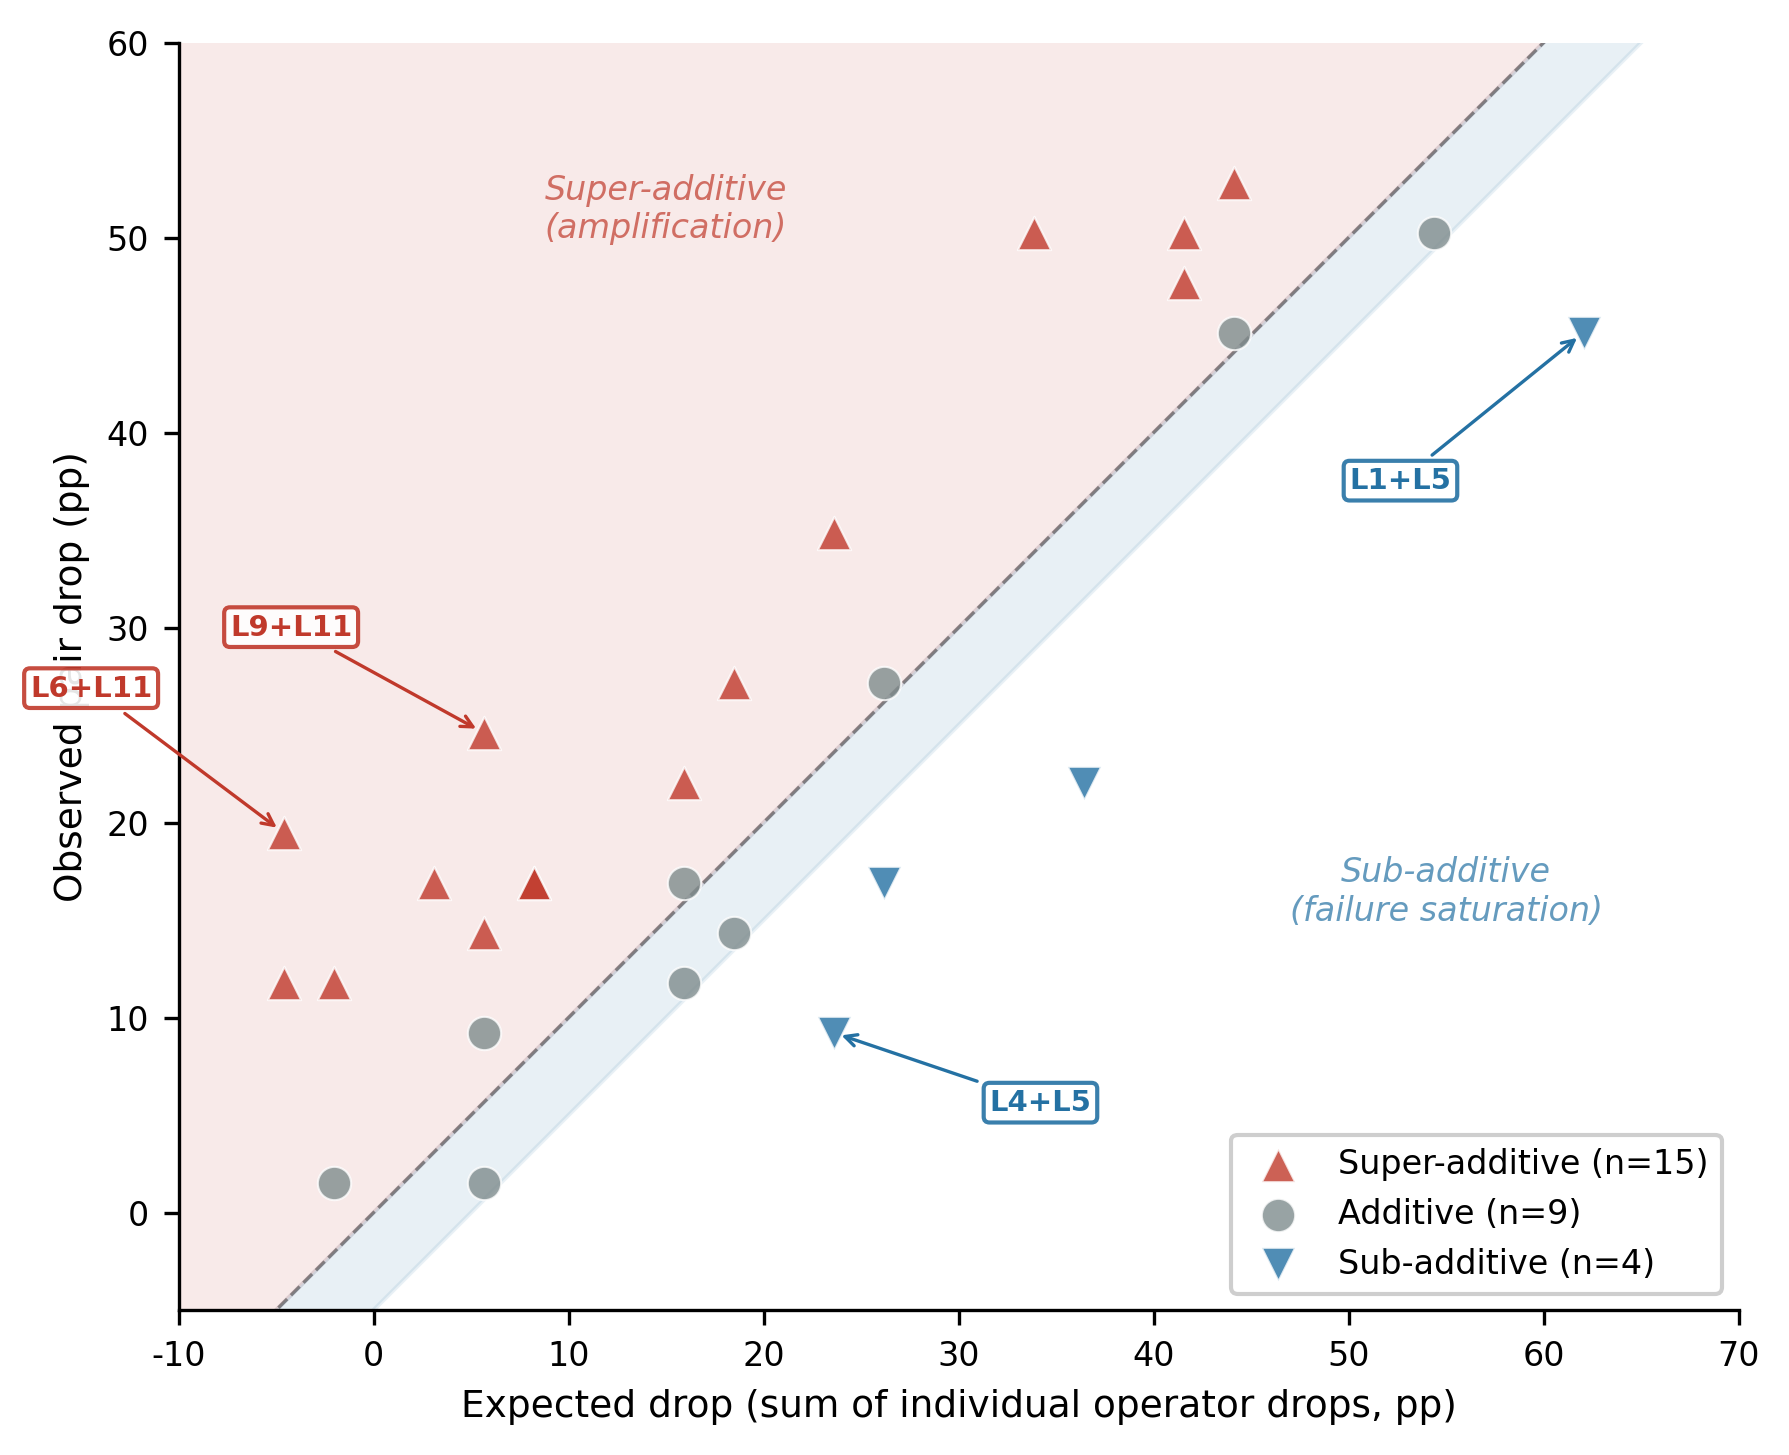
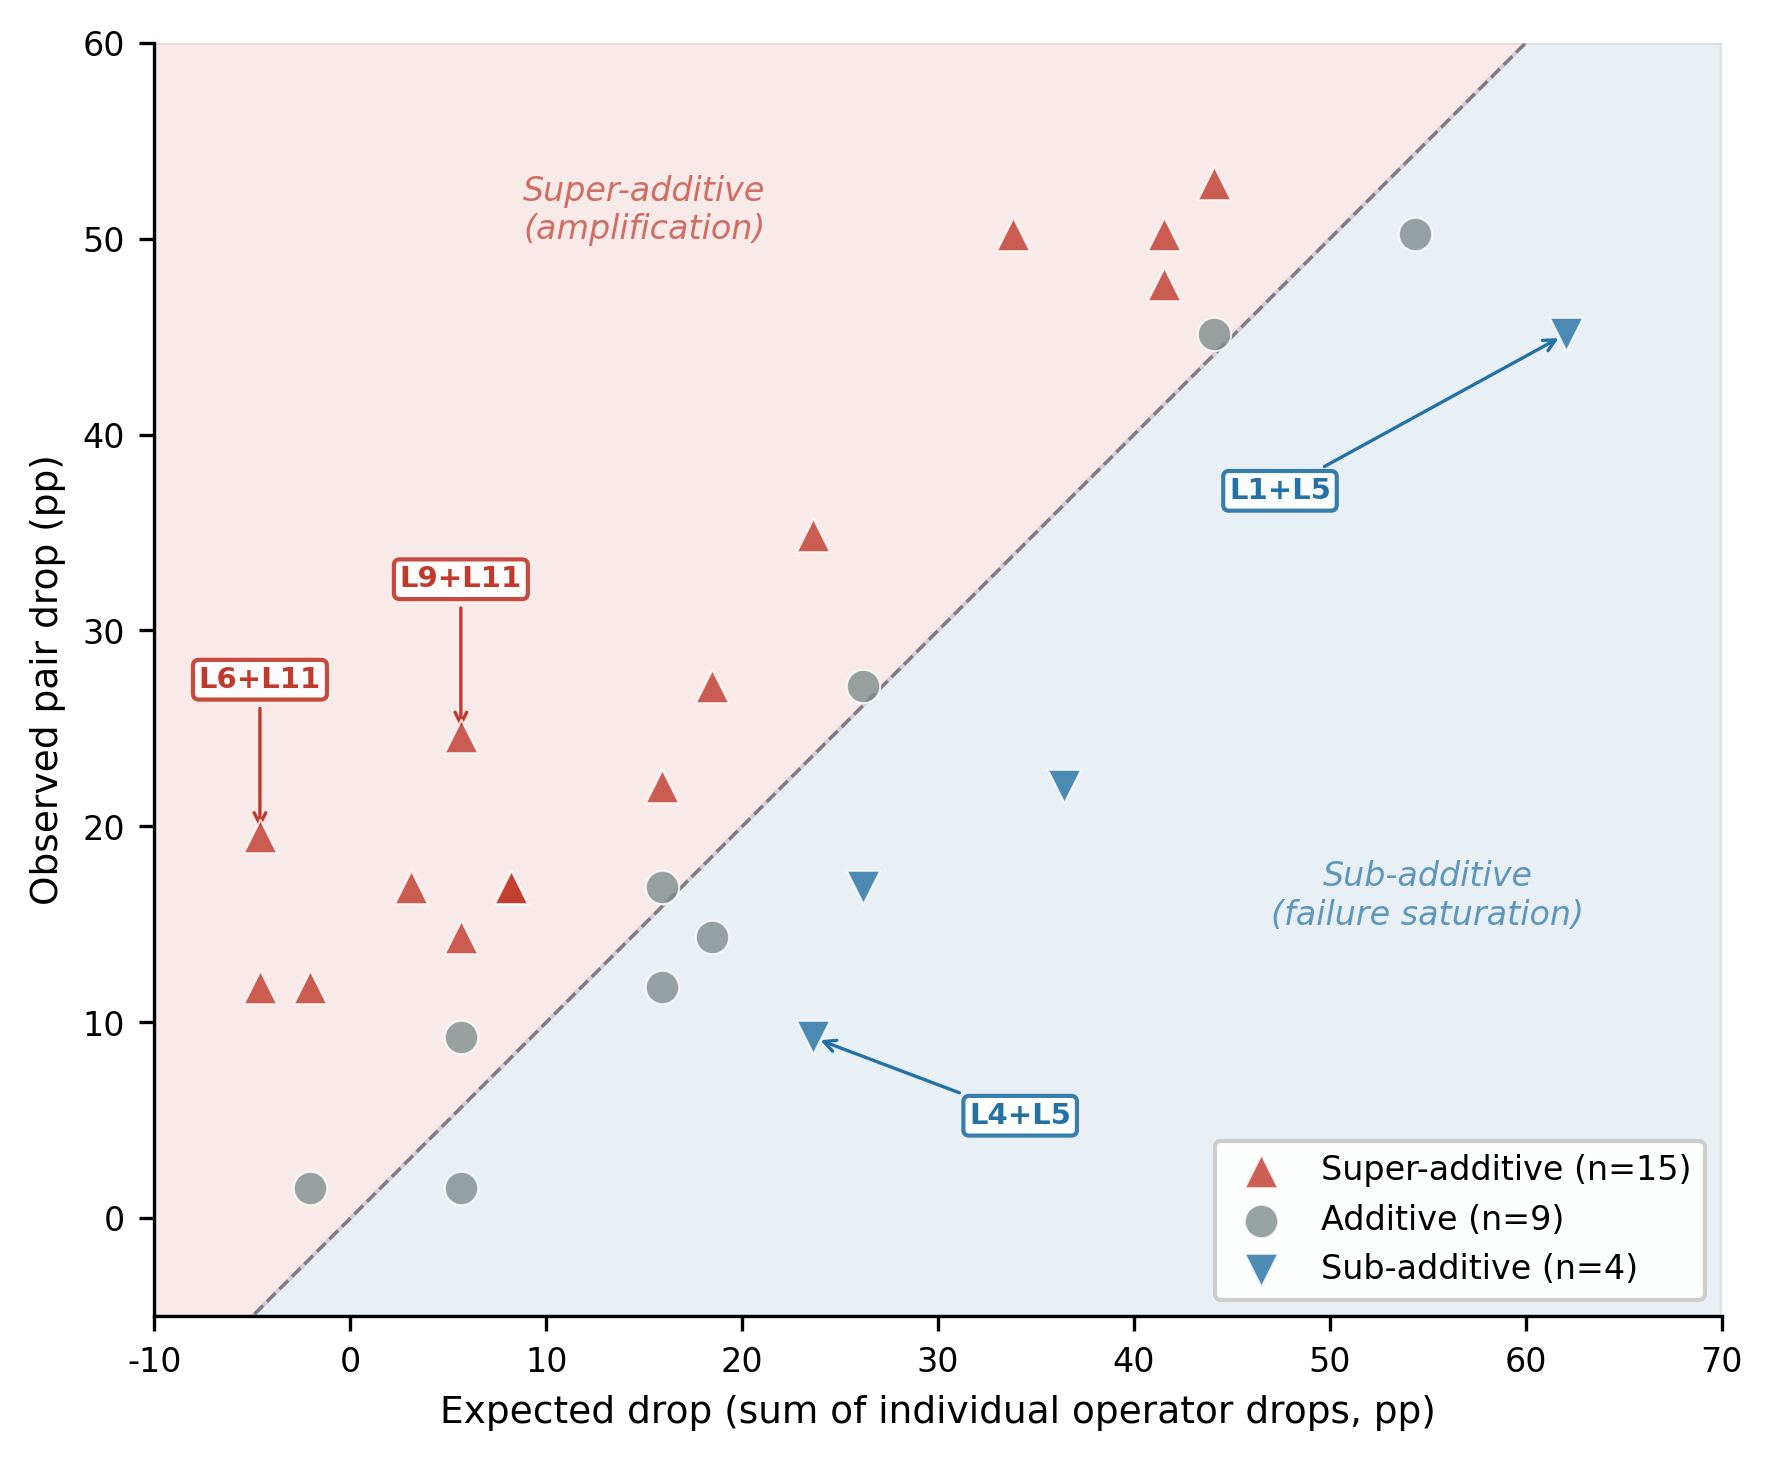
fig9: fill both half-planes red/blue (no white gap) + center L6+L11/L9+L11 labels above points
Visual only; counts unchanged.

diff --git a/figures/generate_fig9_composition.py b/figures/generate_fig9_composition.py
@@ -53,8 +53,11 @@ print(f"super={summary['super']} additive={summary['additive']} "
 
 fig, ax = plt.subplots(figsize=(COLWIDTH_IN, COLWIDTH_IN))
 ax.plot([-10, 70], [-10, 70], 'k--', linewidth=0.8, alpha=0.4, zorder=1)
-ax.fill_between([-10, 70], [-10, 70], [70, 70], alpha=0.10, color='#C0392B', zorder=0)
-ax.fill_between([-10, 70], [-15, 65], [-10, 70], alpha=0.10, color='#2471A3', zorder=0)
+# Shade the whole half-plane above the additivity diagonal red (super-additive)
+# and the whole half-plane below it blue (sub-additive), so there is no
+# ambiguous unshaded region — every point's colour matches its region.
+ax.fill_between([-10, 70], [-10, 70], 60, alpha=0.10, color='#C0392B', zorder=0)
+ax.fill_between([-10, 70], -5, [-10, 70], alpha=0.10, color='#2471A3', zorder=0)
 
 for cat, color in CAT_COLOR.items():
     sub = [r for r in results if r['category'] == cat]
@@ -70,14 +73,16 @@ for cat, color in CAT_COLOR.items():
 
 # Annotate the amplifier anchors
 by_pair = {r['pair']: r for r in results}
-ANNOT = {'L6+L11': (-13, 7), 'L9+L11': (-13, 5), 'L1+L5': (-12, -8), 'L4+L5': (8, -4)}
+ANNOT = {'L6+L11': (0, 8), 'L9+L11': (0, 8), 'L1+L5': (-12, -8), 'L4+L5': (8, -4)}
 for pair, (dx, dy) in ANNOT.items():
     r = by_pair.get(pair)
     if not r:
         continue
+    ha = 'center' if dx == 0 else ('left' if dx > 0 else 'right')
     ax.annotate(pair, xy=(r['expected_drop_pp'], r['observed_drop_pp']),
                 xytext=(r['expected_drop_pp'] + dx, r['observed_drop_pp'] + dy),
                 fontsize=7, fontweight='bold', color=CAT_COLOR[r['category']],
+                ha=ha, va='center',
                 arrowprops=dict(arrowstyle='->', color=CAT_COLOR[r['category']], lw=0.8),
                 bbox=dict(boxstyle='round,pad=0.2', facecolor='white',
                           edgecolor=CAT_COLOR[r['category']], alpha=0.9))